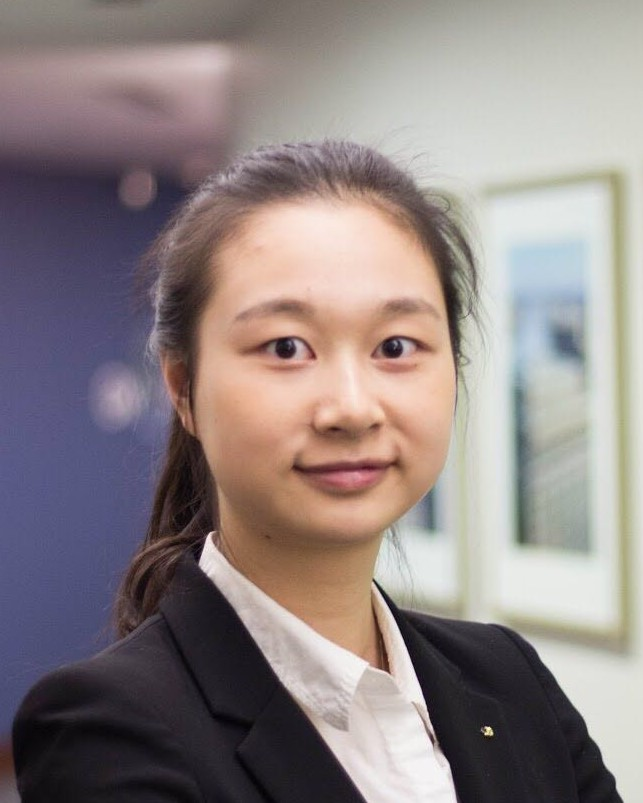
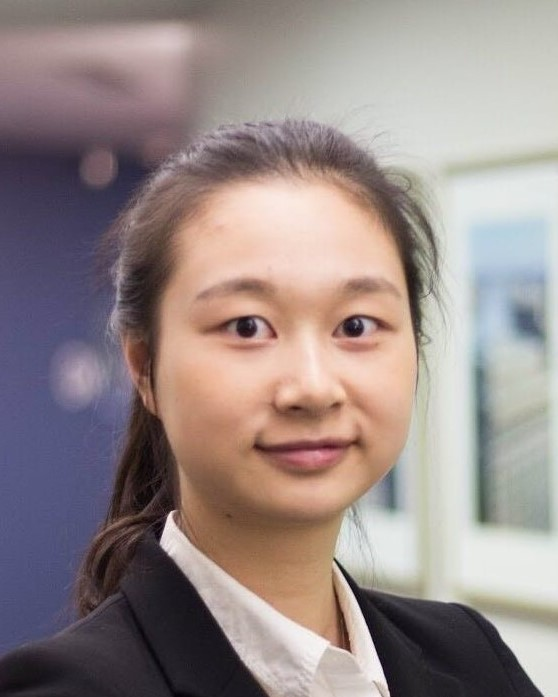
a

diff --git a/Who_We_Are.html b/Who_We_Are.html
@@ -376,6 +376,33 @@ Michael wrote original research on the United States’ decision to cross the 38
 </p></div>
 
 
+                <div class="col-md-3" style = "margin-top: 30px;">
+                    <div data-aos="fade" data-aos-duration="300" data-aos-delay="39" id="images_profile" style="height:250px;background-image:url(&quot;assets/img/shana.jpg&quot;);background-position:center;background-size:contain;background-repeat:no-repeat;"></div>
+                    <h3 class="text-center name" data-aos="fade" data-aos-duration="300" data-aos-delay="43" style="margin-top:3%;">Shana Shin</h3>
+                    <p class="text-center title" data-aos="fade" data-aos-duration="300" data-aos-delay="46" style="color:#666;">Marketing Intern</p>
+                    <p class="text-center description" data-aos="fade" data-aos-duration="300" data-aos-delay="53" style="color:#666;font-weight:normal;">Marketing intern interested in brand building and data-driven marketing<br><br><br><br>
+  <!-- Trigger the modal with a button -->
+  <!--
+  <button type="button" class="btn btn-info btn-sm" data-toggle="modal" style="text-align:center;background-color: #999;border-color: #999;outline: none !important;box-shadow: none !important;" data-target="#MichaelModal">More on Christian</button>
+
+  <div class="modal fade" id="MichaelModal" role="dialog">
+    <div class="modal-dialog">
+
+      <div class="modal-content">
+        <div class="modal-header">
+          <h5 class="modal-title">Michael Jokl</h5>
+          <button type="button" class="close" data-dismiss="modal">&times;</button>
+        </div>
+        <div class="modal-body">
+          <p style="color:#555">Michael is a researcher with a background in international history. His current research focuses on the various mechanisms that have existed in history and have been employed by societies to reconcile and synthesize different perspectives of their citizens.<br><br>
+
+Michael wrote original research on the United States’ decision to cross the 38th parallel during the Korean War, and has worked at Stanford's International Relations Research College with Dr. Naimark as a research assistant. Michael holds a BA in International History from Stanford University.</p>
+        </div>
+      </div>
+    </div>
+  </div>-->
+</p></div>
+
 
 
                 <div class="col-md-3" style = "margin-top: 30px;">
